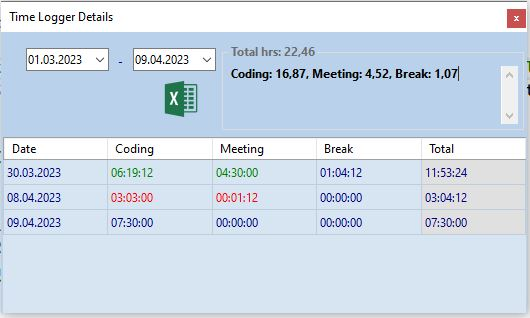
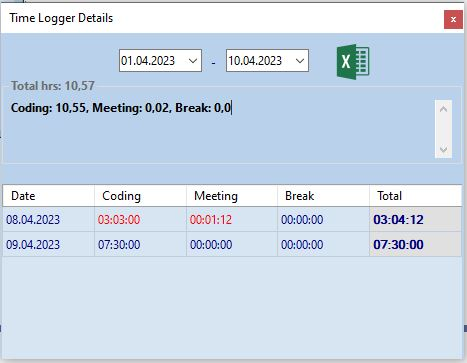
Time logger details changed

diff --git a/WorkTimeLogger/LogDetailsForm.Designer.cs b/WorkTimeLogger/LogDetailsForm.Designer.cs
@@ -53,22 +53,28 @@
             // 
             this.datePicker_Begin.CalendarForeColor = System.Drawing.Color.Navy;
             this.datePicker_Begin.CalendarTitleForeColor = System.Drawing.Color.Navy;
+            this.datePicker_Begin.Cursor = System.Windows.Forms.Cursors.Hand;
             this.datePicker_Begin.CustomFormat = "dd.MM.yyyy";
             this.datePicker_Begin.Format = System.Windows.Forms.DateTimePickerFormat.Custom;
-            this.datePicker_Begin.Location = new System.Drawing.Point(25, 16);
+            this.datePicker_Begin.Location = new System.Drawing.Point(118, 16);
+            this.datePicker_Begin.MaxDate = new System.DateTime(2023, 4, 10, 0, 0, 0, 0);
             this.datePicker_Begin.Name = "datePicker_Begin";
             this.datePicker_Begin.Size = new System.Drawing.Size(83, 23);
             this.datePicker_Begin.TabIndex = 1;
+            this.datePicker_Begin.Value = new System.DateTime(2023, 4, 10, 0, 0, 0, 0);
             this.datePicker_Begin.ValueChanged += new System.EventHandler(this.datePicker_Begin_ValueChanged);
             // 
             // datePicker_End
             // 
+            this.datePicker_End.Cursor = System.Windows.Forms.Cursors.Hand;
             this.datePicker_End.CustomFormat = "dd.MM.yyyy";
             this.datePicker_End.Format = System.Windows.Forms.DateTimePickerFormat.Custom;
-            this.datePicker_End.Location = new System.Drawing.Point(132, 16);
+            this.datePicker_End.Location = new System.Drawing.Point(225, 16);
+            this.datePicker_End.MaxDate = new System.DateTime(2023, 4, 10, 0, 0, 0, 0);
             this.datePicker_End.Name = "datePicker_End";
             this.datePicker_End.Size = new System.Drawing.Size(83, 23);
             this.datePicker_End.TabIndex = 2;
+            this.datePicker_End.Value = new System.DateTime(2023, 4, 10, 0, 0, 0, 0);
             this.datePicker_End.ValueChanged += new System.EventHandler(this.datePicker_End_ValueChanged);
             // 
             // groupBox_Total
@@ -77,9 +83,9 @@
             this.groupBox_Total.FlatStyle = System.Windows.Forms.FlatStyle.Flat;
             this.groupBox_Total.Font = new System.Drawing.Font("Segoe UI", 9F, System.Drawing.FontStyle.Bold, System.Drawing.GraphicsUnit.Point);
             this.groupBox_Total.ForeColor = System.Drawing.SystemColors.GrayText;
-            this.groupBox_Total.Location = new System.Drawing.Point(221, 12);
+            this.groupBox_Total.Location = new System.Drawing.Point(1, 45);
             this.groupBox_Total.Name = "groupBox_Total";
-            this.groupBox_Total.Size = new System.Drawing.Size(302, 87);
+            this.groupBox_Total.Size = new System.Drawing.Size(460, 87);
             this.groupBox_Total.TabIndex = 0;
             this.groupBox_Total.TabStop = false;
             this.groupBox_Total.Text = "Total hrs: ";
@@ -94,7 +100,7 @@
             this.txtBox_Details.Name = "txtBox_Details";
             this.txtBox_Details.ReadOnly = true;
             this.txtBox_Details.ScrollBars = System.Windows.Forms.ScrollBars.Vertical;
-            this.txtBox_Details.Size = new System.Drawing.Size(290, 58);
+            this.txtBox_Details.Size = new System.Drawing.Size(444, 58);
             this.txtBox_Details.TabIndex = 0;
             this.txtBox_Details.TabStop = false;
             // 
@@ -102,7 +108,7 @@
             // 
             this.label1.AutoSize = true;
             this.label1.ForeColor = System.Drawing.Color.Navy;
-            this.label1.Location = new System.Drawing.Point(114, 22);
+            this.label1.Location = new System.Drawing.Point(207, 22);
             this.label1.Name = "label1";
             this.label1.Size = new System.Drawing.Size(12, 15);
             this.label1.TabIndex = 3;
@@ -115,7 +121,7 @@
             this.btn_Report.Cursor = System.Windows.Forms.Cursors.Hand;
             this.btn_Report.FlatAppearance.BorderSize = 0;
             this.btn_Report.FlatStyle = System.Windows.Forms.FlatStyle.Flat;
-            this.btn_Report.Location = new System.Drawing.Point(162, 47);
+            this.btn_Report.Location = new System.Drawing.Point(334, 9);
             this.btn_Report.Name = "btn_Report";
             this.btn_Report.Size = new System.Drawing.Size(36, 40);
             this.btn_Report.TabIndex = 3;
@@ -151,7 +157,7 @@
             dataGridViewCellStyle2.WrapMode = System.Windows.Forms.DataGridViewTriState.False;
             this.dataGridView_Logs.DefaultCellStyle = dataGridViewCellStyle2;
             this.dataGridView_Logs.GridColor = System.Drawing.SystemColors.InactiveCaption;
-            this.dataGridView_Logs.Location = new System.Drawing.Point(2, 105);
+            this.dataGridView_Logs.Location = new System.Drawing.Point(1, 151);
             this.dataGridView_Logs.Name = "dataGridView_Logs";
             this.dataGridView_Logs.RowHeadersVisible = false;
             this.dataGridView_Logs.RowTemplate.Height = 25;
@@ -159,9 +165,10 @@
             this.dataGridView_Logs.SelectionMode = System.Windows.Forms.DataGridViewSelectionMode.FullRowSelect;
             this.dataGridView_Logs.ShowCellErrors = false;
             this.dataGridView_Logs.ShowRowErrors = false;
-            this.dataGridView_Logs.Size = new System.Drawing.Size(523, 177);
+            this.dataGridView_Logs.Size = new System.Drawing.Size(460, 177);
             this.dataGridView_Logs.TabIndex = 0;
             this.dataGridView_Logs.TabStop = false;
+            this.dataGridView_Logs.CellMouseEnter += new System.Windows.Forms.DataGridViewCellEventHandler(this.dataGridView_Logs_CellMouseEnter);
             // 
             // Date
             // 
@@ -199,6 +206,7 @@
             // 
             this.Total.AutoSizeMode = System.Windows.Forms.DataGridViewAutoSizeColumnMode.Fill;
             dataGridViewCellStyle1.BackColor = System.Drawing.Color.FromArgb(((int)(((byte)(224)))), ((int)(((byte)(224)))), ((int)(((byte)(224)))));
+            dataGridViewCellStyle1.Font = new System.Drawing.Font("Microsoft Sans Serif", 8.25F, System.Drawing.FontStyle.Bold, System.Drawing.GraphicsUnit.Point);
             this.Total.DefaultCellStyle = dataGridViewCellStyle1;
             this.Total.HeaderText = "Total";
             this.Total.Name = "Total";
@@ -210,7 +218,7 @@
             this.AutoScaleDimensions = new System.Drawing.SizeF(7F, 15F);
             this.AutoScaleMode = System.Windows.Forms.AutoScaleMode.Font;
             this.BackColor = System.Drawing.SystemColors.GradientActiveCaption;
-            this.ClientSize = new System.Drawing.Size(526, 281);
+            this.ClientSize = new System.Drawing.Size(463, 326);
             this.Controls.Add(this.dataGridView_Logs);
             this.Controls.Add(this.btn_Report);
             this.Controls.Add(this.label1);

diff --git a/WorkTimeLogger/LogDetailsForm.cs b/WorkTimeLogger/LogDetailsForm.cs
@@ -206,5 +206,48 @@ namespace WorkTimeLogger
         {
             return $"{timeSpan.Hours:00}:{timeSpan.Minutes:00}:{timeSpan.Seconds:00}";
         }
+
+        private void dataGridView_Logs_CellMouseEnter(object sender, DataGridViewCellEventArgs e)
+        {
+            if (e.RowIndex >= 0 && (e.ColumnIndex == 1 || e.ColumnIndex == 2))
+            {
+                decimal codingTime = 0m;
+                decimal meetingTime = 0m;
+
+                for (int i = 1; i <= 2; i++)
+                {
+                    
+                    if (i == 1) // Coding Time column
+                    {
+                        codingTime = ConvertTimeToDecimal(dataGridView_Logs.Rows[e.RowIndex].Cells[i].Value.ToString());
+                    }
+                    else if (i == 2) // Meeting Time column
+                    {
+                        meetingTime = ConvertTimeToDecimal(dataGridView_Logs.Rows[e.RowIndex].Cells[i].Value.ToString());
+                    }
+                    
+                }
+
+                string tooltipText = string.Format("Coding + meeting time = {0}", TimeSpan.FromHours((double)(codingTime + meetingTime)).ToString("hh\\:mm\\:ss"));
+                dataGridView_Logs.ShowCellToolTips = true;
+                dataGridView_Logs.Rows[e.RowIndex].Cells[e.ColumnIndex].ToolTipText = tooltipText;
+            }
+        }
+
+        private static decimal ConvertTimeToDecimal(string timeString)
+        {
+            // Split the time string into hours, minutes, and seconds
+            string[] timeParts = timeString.Split(':');
+
+            // Parse the parts to integers
+            int hours = int.Parse(timeParts[0]);
+            int minutes = int.Parse(timeParts[1]);
+            int seconds = int.Parse(timeParts[2]);
+
+            // Calculate the decimal value of the time
+            decimal decimalTime = hours + (minutes / 60m) + (seconds / 3600m);
+
+            return decimalTime;
+        }
     }
 }
